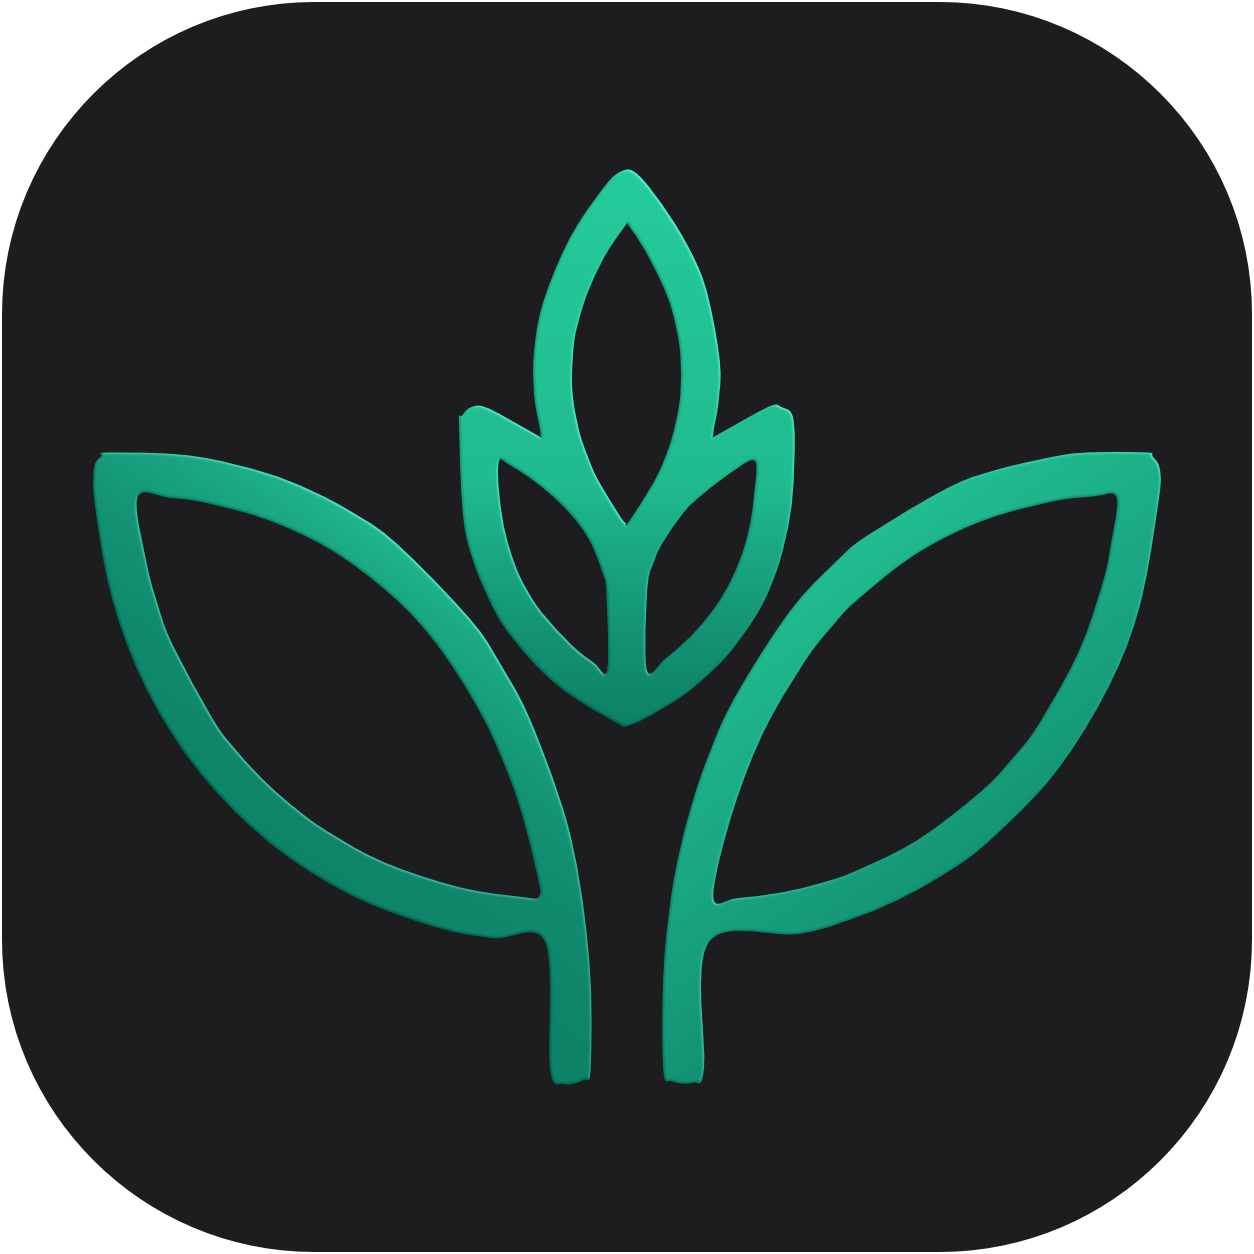
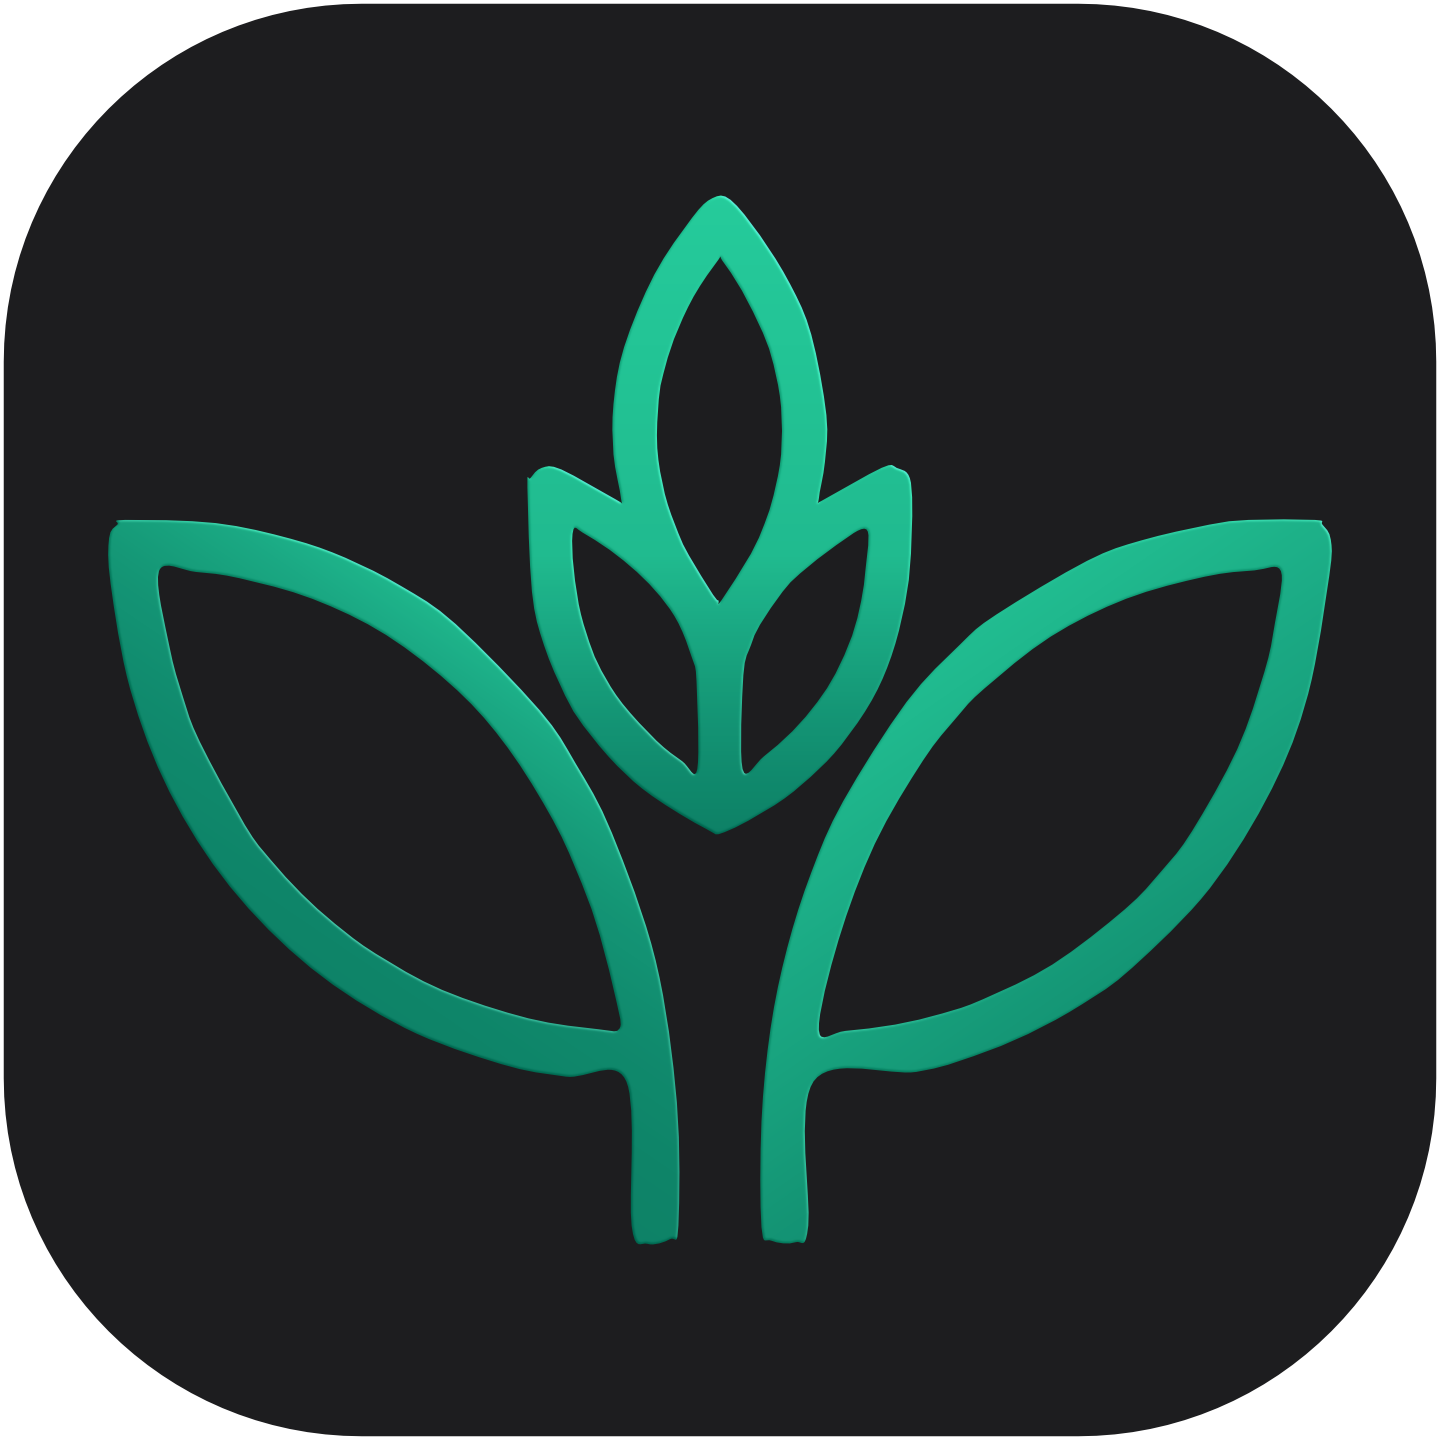
v1.1.0 - add stop button, keep title and notes

Changed region(s): [[0.9952, 0.2177, 1.0, 0.7775], [0.2177, 0.9952, 0.7775, 1.0]]

diff --git a/src/panel.html b/src/panel.html
@@ -245,6 +245,10 @@ body:has(.app.dark) .session-del { color: rgba(255,255,255,0.4); }
 .session-info[data-activetag="fitness"] * { color: #7cb518; }
 .session-info.complete { color: #34c759; font-weight: 700; }
 
+.app.dark .session-info.phase-break,
+.session-info.phase-break,
+.session-info.phase-break * { color: #007A5E; }
+
 .controls { display: flex; gap: 16px; justify-content: center; align-items: center; }
 .btn { border: none; cursor: pointer; display: flex; align-items: center; justify-content: center; transition: all 0.18s ease; }
 .btn-secondary { width: 50px; height: 50px; border-radius: 50%; background: rgba(255,255,255,0.55); border: 1px solid rgba(0,0,0,0.08); box-shadow: 0 4px 12px rgba(0,0,0,0.08); }
@@ -412,6 +416,9 @@ body:has(.app.dark) .resume-day-time { color: var(--accent-2, #FFA566); }
 				</button>
 				<button class="btn btn-secondary" id="skipBtn" title="Skip">
 					<svg viewBox="0 0 24 24"><path d="M6 18l8.5-6L6 6v12zM16 6v12h2V6h-2z"/></svg>
+				</button>
+				<button class="btn btn-secondary" id="stopBtn" title="Stop session">
+					<svg viewBox="0 0 24 24"><path d="M6 6h12v12H6z"/></svg>
 				</button>
 			</div>
 		</div>
@@ -623,6 +630,10 @@ $('resetBtn').addEventListener('click', () => {
 
 $('skipBtn').addEventListener('click', () => {
 	vscodeApi.postMessage({ type: 'skip' });
+});
+
+$('stopBtn').addEventListener('click', () => {
+	vscodeApi.postMessage({ type: 'stop' });
 });
 
 // ============================================================
@@ -872,12 +883,13 @@ function renderSessionInfo(isTimerActive) {
 	sessionInfo.classList.remove('complete');
 	if (isTimerActive) {
 		sessionInfo.classList.add('running');
+		sessionInfo.classList.toggle('phase-break', state.phase === 'break');
 		const tagLabel = state.sessionTag || 'Focus';
 		const phaseTag = state.phase === 'focus' ? 'Focus' : 'Break';
 		sessionInfo.dataset.activetag = (state.sessionTag || 'work').toLowerCase();
 		sessionInfo.innerHTML = `${tagLabel} - <span class="phase-tag ${state.phase}">${phaseTag}</span> ${state.currentRound}/${state.roundsPerSession}`;
 	} else {
-		sessionInfo.classList.remove('running');
+		sessionInfo.classList.remove('running', 'phase-break');
 		delete sessionInfo.dataset.activetag;
 		sessionInfo.textContent = `Rounds ${state.currentRound}/${state.roundsPerSession}`;
 	}

diff --git a/src/Timer.ts b/src/Timer.ts
@@ -150,9 +150,6 @@ export class Timer {
 		this.allComplete = false;
 		this.currentRound = 1;
 		this.elapsedSeconds = 0;
-		this.storage.sessionTitle = '';
-		this.storage.sessionTag = 'Work';
-		this.storage.notes = '';
 		this.resetToPhase('focus');
 		this.emitTick();
 	}
@@ -161,6 +158,15 @@ export class Timer {
 		if (this.allComplete || this.status === 'idle') return;
 		this.clearAutoStartTimeout();
 		this.handlePhaseComplete();
+	}
+
+	/** Ends the session immediately, regardless of remaining rounds, and records it as complete. */
+	stop(): void {
+		if (this.allComplete) return;
+		this.clearInterval();
+		this.clearAutoStartTimeout();
+		this.completeSession();
+		this.emitTick();
 	}
 
 	setSessionTitle(title: string): void {

diff --git a/src/extension.ts b/src/extension.ts
@@ -154,6 +154,7 @@ function handleMessage(message: { type: string; [key: string]: unknown }): void 
 		case 'pause': timer.pause(); break;
 		case 'reset': timer.reset(); break;
 		case 'skip': timer.skip(); break;
+		case 'stop': timer.stop(); break;
 		case 'setTitle': timer.setSessionTitle(message.title as string); break;
 		case 'setTag': timer.setSessionTag(message.tag as string); break;
 		case 'setNotes':

diff --git a/README.md b/README.md
@@ -2,7 +2,7 @@
 
 [![License: MIT](https://img.shields.io/badge/License-MIT-yellow.svg)](https://opensource.org/licenses/MIT)
 
-![Paolium Pomodoro](https://github.com/Paolium/.github/blob/main/logos/paolium-logo-x-tools.png?raw=true)
+![Paolium Pomodoro](https://github.com/Paolium/.github/blob/main/logos/paolium-logo-large-tools.png?raw=true)
 
 A beautiful and an elegant Pomodoro timer.
 

diff --git a/changelog.md b/changelog.md
@@ -1,5 +1,11 @@
 # Changelog
 
+## v1.1.0
+### Added
+- Stop button to end a session immediately, saving it to history regardless of remaining rounds
+### Fixed
+- Resetting a session no longer clears the title, tag, or notes
+
 ## v1.0.0
 ### Initial Release
 - Customizable focus sessions and breaks
